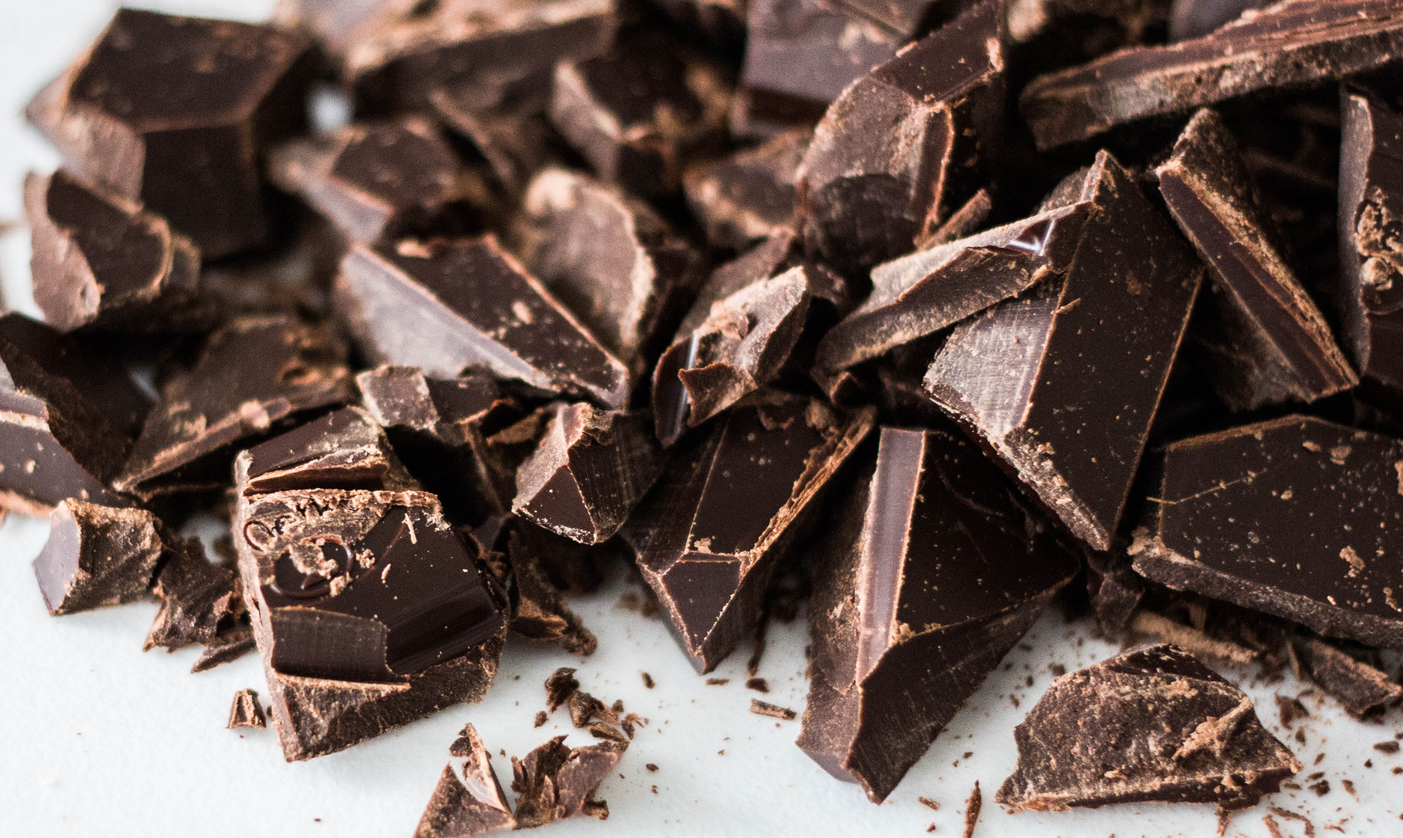
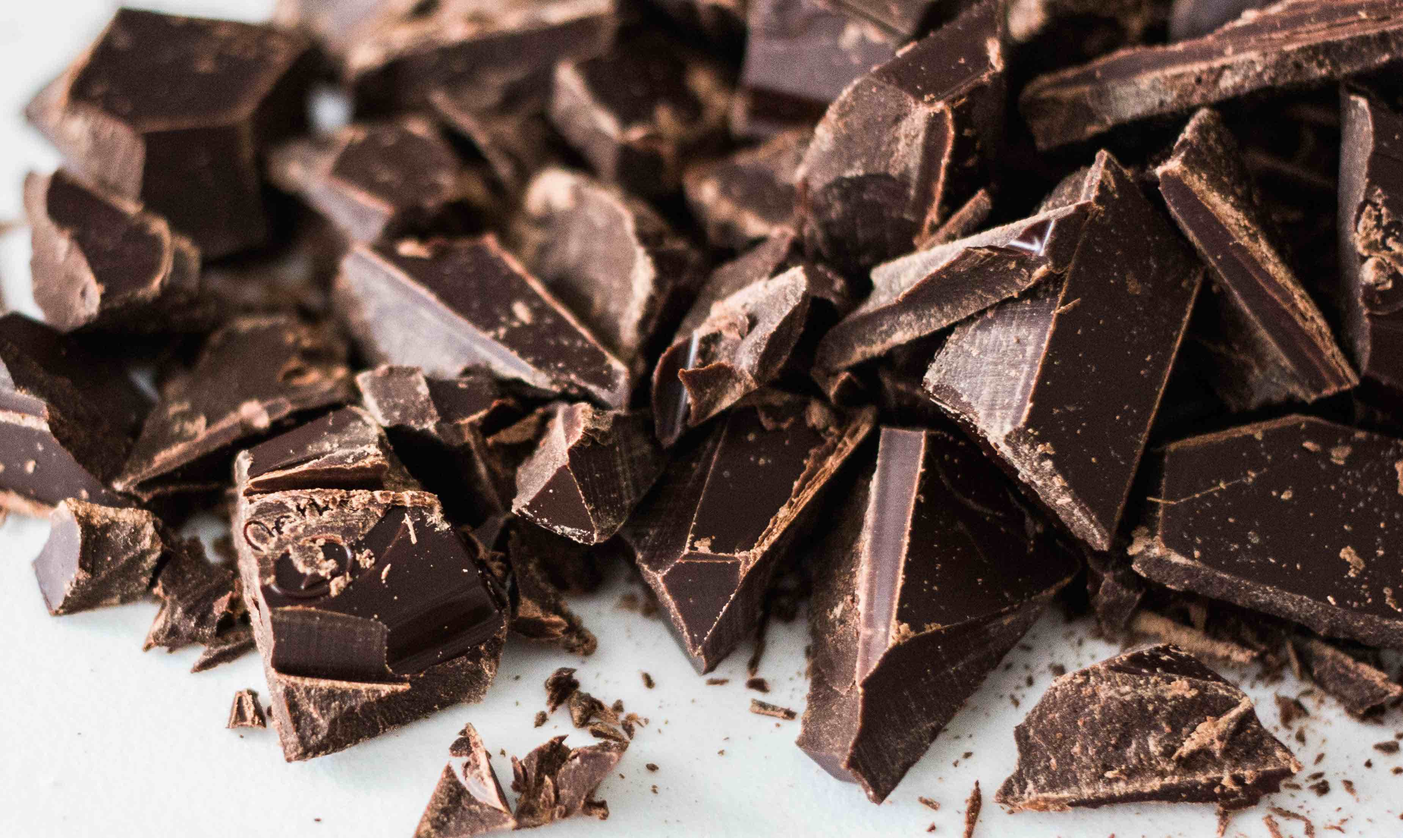
updating homepage and making image files smaller

diff --git a/src/pages/index.md b/src/pages/index.md
@@ -1,6 +1,6 @@
 ---
 templateKey: index-page
-title: Great Chocolate
+title: Cook's Chocolates
 image: /img/brokenchocolate.jpg
 heading: Brining Custom Chocolate
 subheading: Enjoy the delicious taste of chocolate
@@ -18,7 +18,7 @@ description: >-
   seriously and we’re glad to pass the passion and knowledge on to all interested.
 intro:
   blurbs:
-    - image: /img/coffee.png
+    - image: /img/dark.png
       text: >
         We sell chocolate bars with different options so everyone can find What
         they're looking for. We also provide chocolate kits for people who would
